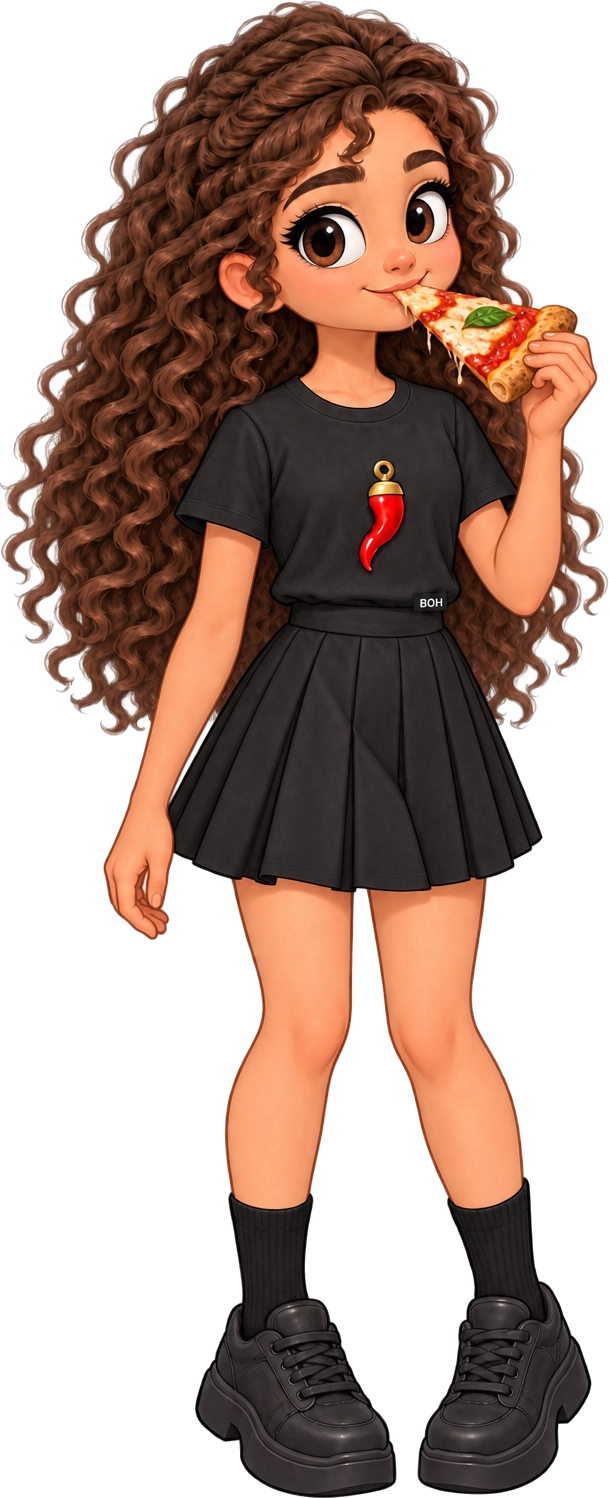
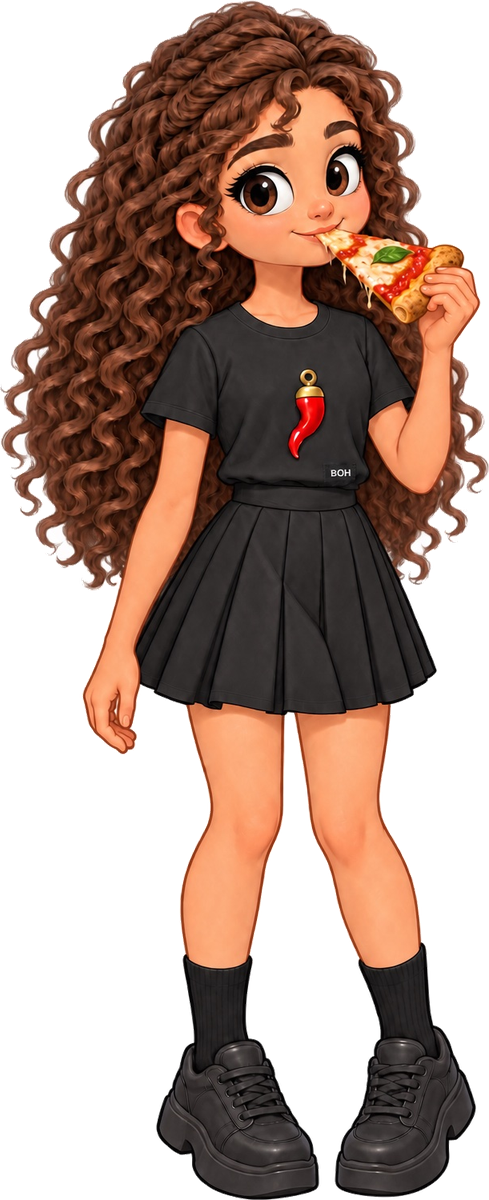
Swap in the new full-body Boh poses
She walks in, points at what she sees, shows the pizza, eats it, and blows a kiss at the end.

diff --git a/walk.html b/walk.html
@@ -67,9 +67,9 @@ var STOPS=[
 {who:"io",whoEn:"I",it:"Io vedo il mare.",en:"I see the sea.",img:"art/cities/napoli-mare.jpg",alt:"The Gulf of Naples in bright sun, blue water from the rocks at Posillipo.",pose:"art/avatar/boh-point.png",say:"art/voice/mare.mp3"},
 {who:"io",whoEn:"I",it:"Io vedo il Vesuvio.",en:"I see Vesuvius.",img:"art/cities/napoli-vesuvio-bay.jpg",alt:"Mount Vesuvius across the blue bay of Naples, in clear daylight.",pose:"art/avatar/boh-point.png",say:"art/voice/vesuvio.mp3"},
 {who:"io",whoEn:"I",it:"Io vedo la piazza.",en:"I see the town square.",img:"art/cities/napoli-piazza.jpg",alt:"Piazza del Plebiscito in Naples on a sunny day, with people in the square.",pose:"art/avatar/boh-point.png",say:"art/voice/piazza.mp3"},
-{who:"io",whoEn:"I",it:"Io ho una pizza Margherita.",en:"I have a Margherita pizza.",img:"art/cities/napoli-pizza-margherita.jpg",alt:"A Margherita pizza with tomato, mozzarella, and basil.",pose:"art/avatar/boh-walk.png",say:"art/voice/ho.mp3"},
+{who:"io",whoEn:"I",it:"Io ho una pizza Margherita.",en:"I have a Margherita pizza.",img:"art/cities/napoli-pizza-margherita.jpg",alt:"A Margherita pizza with tomato, mozzarella, and basil.",pose:"art/avatar/boh-shrug.png",say:"art/voice/ho.mp3"},
 {who:"io",whoEn:"I",it:"Io mangio la pizza.",en:"I eat the pizza.",img:"art/cities/napoli-pizza-margherita-2.jpg",alt:"A Margherita pizza with tomato, mozzarella, and basil.",pose:"art/avatar/boh-pizza.png",say:"art/voice/mangio.mp3"},
-{who:"tu",whoEn:"you",it:"Tu visiti Napoli. A presto!",en:"You visit Naples. See you soon!",img:"art/cities/napoli-castel-ovo.jpg",alt:"Castel dell'Ovo on the Gulf of Naples, in the sun.",pose:"art/avatar/boh-wave.png",say:"art/voice/tu.mp3"}
+{who:"tu",whoEn:"you",it:"Tu visiti Napoli. A presto!",en:"You visit Naples. See you soon!",img:"art/cities/napoli-castel-ovo.jpg",alt:"Castel dell'Ovo on the Gulf of Naples, in the sun.",pose:"art/avatar/boh-kiss.png",say:"art/voice/tu.mp3"}
 ];
 var view=document.getElementById("view"), muted=false, i=-1, voice=null;
 function say(src){
